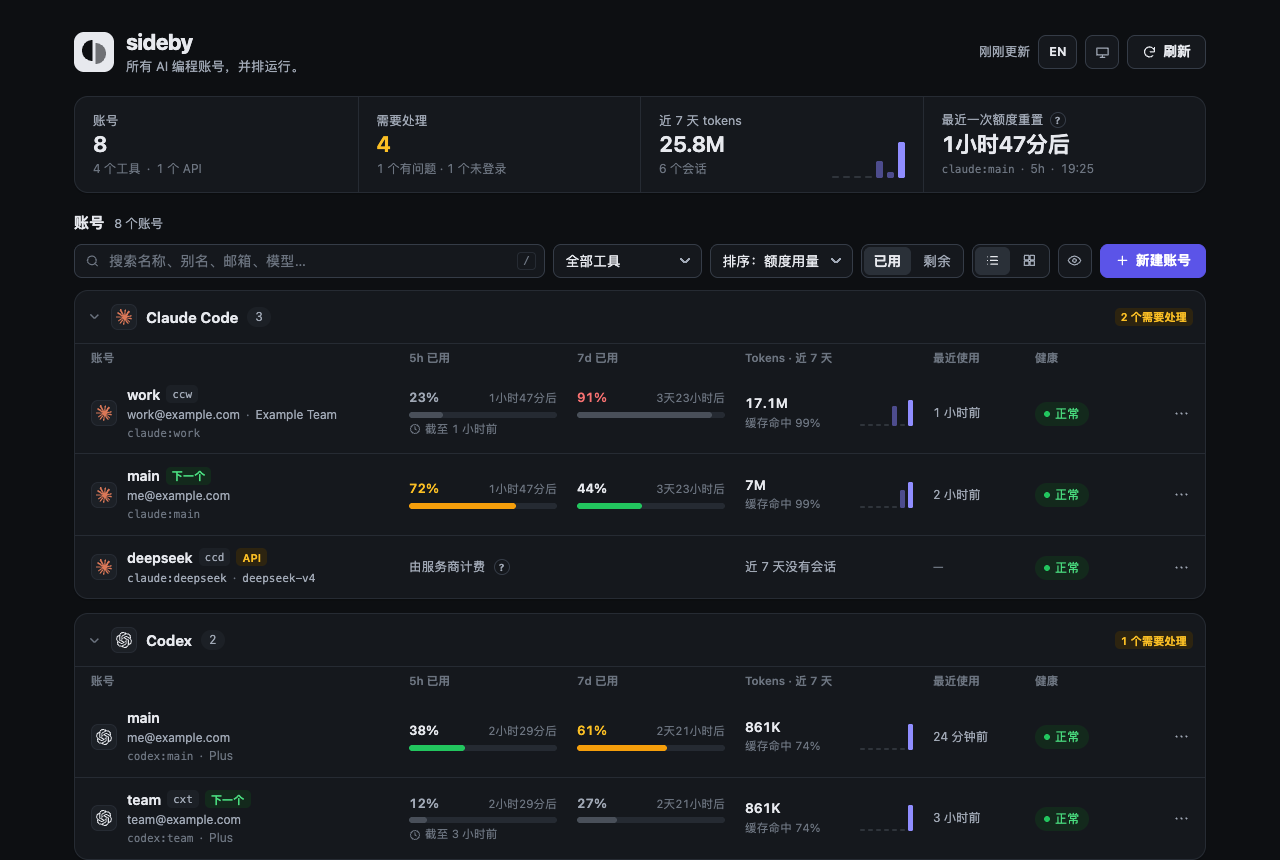
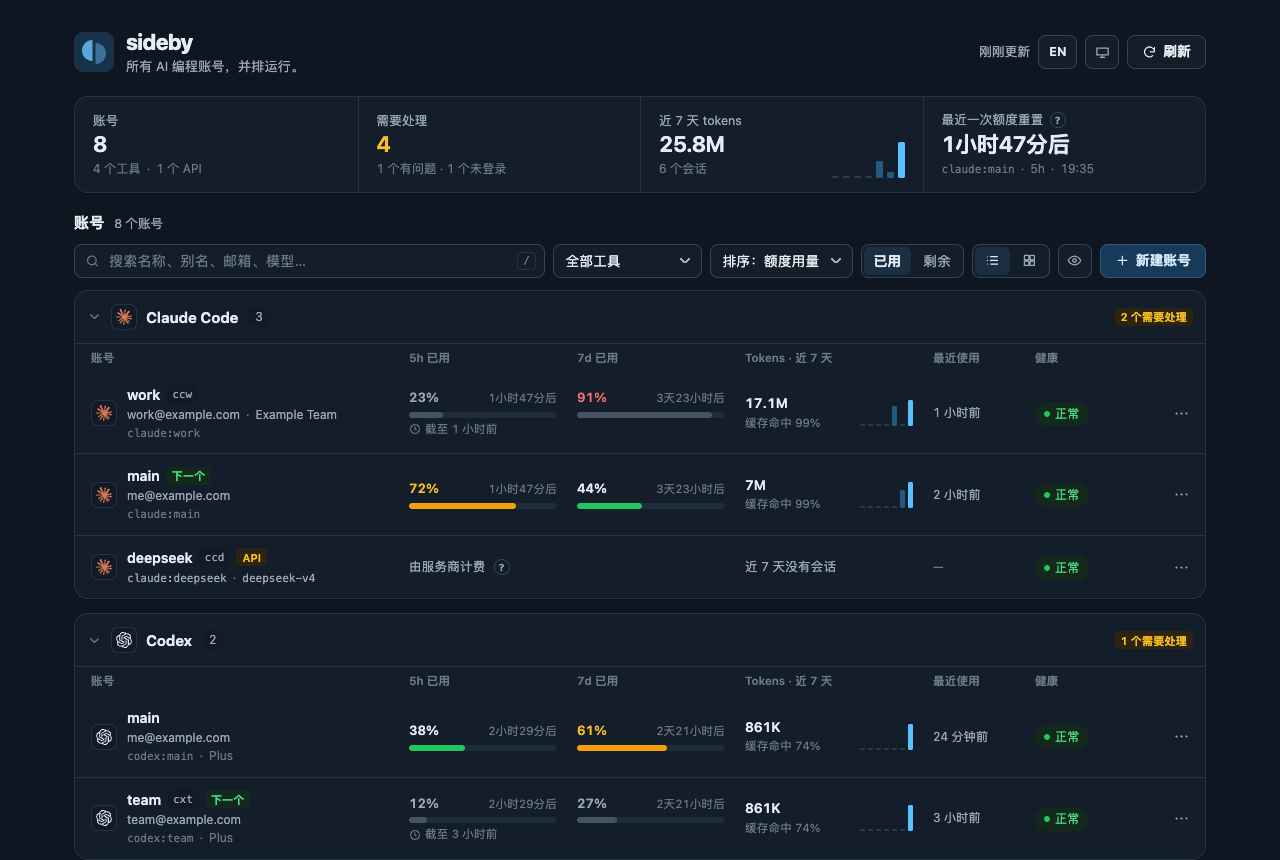
✨ feat(panel): soft blue default palette instead of indigo
The Panel's own colors and the desktop app icon now match the Local tools look (pale blue primary with blue text, a tinted logo tile, blue sparklines; matching dark blues), so the standalone Panel, the desktop app and the README screenshots look like the Panel people see embedded.

diff --git a/src/panel/page-styles.ts b/src/panel/page-styles.ts
@@ -4,9 +4,8 @@ import { type ResolvedTheme, resolveTheme } from './theme.ts'
 
 // Colors defined from other tokens; repeated in both schemes so they follow that scheme's base colors.
 const DERIVED_COLORS = `
-  --primary-border: var(--primary); --primary-hover-border: var(--primary-hover); --btn-text: var(--text);
-  --btn-hover-border: var(--border-strong); --btn-hover-text: var(--text); --check: var(--primary);
-  --logo-bg: var(--text); --logo-fg: var(--bg); --logo-line: transparent;
+  --btn-text: var(--text); --btn-hover-text: var(--accent); --check: var(--focus);
+  --logo-bg: var(--accent-soft); --logo-fg: var(--focus); --logo-line: var(--border);
   --focus-outline: 2px solid var(--focus); --focus-ring: none;`
 // Design tokens. A host theme (theme.ts) layers its values over these: light values after LIGHT_TOKENS, dark values after
 // DARK_TOKENS. DARK_TOKENS sets every color token again, so a host's light colors never leak into dark mode, while
@@ -17,22 +16,24 @@ const LIGHT_TOKENS = `
   --title-weight: 750; --heading-weight: 650; --strong-weight: 600; --button-weight: 600; --primary-weight: var(--button-weight);
   --radius: 14px; --ctl-radius: 8px; --chip-radius: 999px; --ctl-h: 34px; --ctl-h-sm: 28px; --field-h: 36px;
   --content-width: 1180px; --gutter: 24px;
-  --bg: #f5f6f8; --surface: #ffffff; --surface-2: #f0f2f5; --border: #e2e5ea; --border-strong: #cfd4dc;
-  --text: #15171c; --muted: #5b6372; --faint: #8b93a1; --accent: #4f46e5; --accent-soft: #eef0ff;
-  --primary: #4f46e5; --primary-hover: #4338ca; --primary-active: #3730a3; --on-primary: #ffffff;
-  --hover: #eceef2; --active: #e2e5ea; --focus: #6366f1;
+  --bg: #f2f8fc; --surface: #fcfcfa; --surface-2: #f6fafd; --border: #dce8f0; --border-strong: #c5d7e4;
+  --text: #15171c; --muted: #555b63; --faint: #8b93a1; --accent: #27658f; --accent-soft: #e5f2fb;
+  --primary: #e1f0fb; --primary-hover: #d2e8f9; --primary-active: #c3e0f6; --on-primary: #1f6396;
+  --primary-border: #b9d8ef; --primary-hover-border: #9cc7e8; --btn-hover-border: #8fbde3;
+  --hover: #f0f7fc; --active: #e6f1fa; --focus: #3f8fc4;
   --ok: #15803d; --ok-bar: #22c55e; --ok-soft: #e8f7ee; --warn: #b45309; --warn-bar: #f59e0b; --warn-soft: #fdf3e2;
-  --fail: #c81e1e; --fail-bar: #ef4444; --fail-soft: #fdecec; --track: #e9ecf1;
+  --fail: #c81e1e; --fail-bar: #ef4444; --fail-soft: #fdecec; --track: #e4edf4;
   --spark: oklch(from var(--accent) clamp(0.55, l, 0.62) max(c, 0.14) h); --spark-soft: oklch(from var(--accent) 0.83 calc(max(c, 0.14) * 0.6) h);
   --shadow: 0 1px 2px rgba(16,24,40,.04), 0 2px 8px rgba(16,24,40,.05);
   --float-shadow: 0 10px 30px rgba(16,24,40,.14), 0 2px 6px rgba(16,24,40,.06);${DERIVED_COLORS}`
 const DARK_TOKENS = `
-  --bg: #0d0f12; --surface: #15181d; --surface-2: #1c2026; --border: #262b33; --border-strong: #353c47;
-  --text: #e7e9ee; --muted: #a0a8b5; --faint: #6c7480; --accent: #8b87ff; --accent-soft: #23224a;
-  --primary: #5b54e8; --primary-hover: #6a64ef; --primary-active: #4f46e5; --on-primary: #ffffff;
-  --hover: #22272e; --active: #2a3038; --focus: #8b87ff;
+  --bg: #0e1621; --surface: #141e2a; --surface-2: #111a25; --border: #233244; --border-strong: #30455b;
+  --text: #e6edf3; --muted: #9aa9b8; --faint: #6b7a8a; --accent: #8cc4ee; --accent-soft: #16314a;
+  --primary: #173a58; --primary-hover: #1d4769; --primary-active: #22537a; --on-primary: #d3e9fa;
+  --primary-border: #2b5b82; --primary-hover-border: #3a6f99; --btn-hover-border: #4a7fa8;
+  --hover: #182736; --active: #1c2f42; --focus: #5aa7dc;
   --ok: #4ade80; --ok-bar: #22c55e; --ok-soft: #13291c; --warn: #fbbf24; --warn-bar: #f59e0b; --warn-soft: #2d2410;
-  --fail: #f87171; --fail-bar: #ef4444; --fail-soft: #331717; --track: #252a32;
+  --fail: #f87171; --fail-bar: #ef4444; --fail-soft: #331717; --track: #1f2c3a;
   --spark: oklch(from var(--accent) clamp(0.7, l, 0.78) max(c, 0.14) h); --spark-soft: oklch(from var(--accent) 0.45 calc(max(c, 0.14) * 0.6) h);
   --shadow: 0 1px 2px rgba(0,0,0,.3); --float-shadow: 0 12px 32px rgba(0,0,0,.5), 0 2px 6px rgba(0,0,0,.3);${DERIVED_COLORS}`
 

diff --git a/src/desktop/app.test.ts b/src/desktop/app.test.ts
@@ -67,16 +67,16 @@ describe('app icon', () => {
     assert.deepEqual([width, height], [256, 256])
     assert.deepEqual(text, [`Software\0${APP_MARKER}`])
     assert.deepEqual(px(0, 0), [0, 0, 0, 0], 'outside the tile is transparent')
-    assert.deepEqual(px(128, 60), [0x15, 0x17, 0x1c, 255], 'the tile is the Panel dark')
+    assert.deepEqual(px(128, 60), [0xe5, 0xf2, 0xfb, 255], 'the tile is the Panel logo tint')
     // Halves of radius 10.5 at 18.5,18.5 (left) and 21.5,21.5 (right) in the 40-unit logo; the tile is
     // 824/1024 of the canvas, centred.
     const at = (u: number) => Math.floor(25 + (u * 206) / 40)
-    const tile = [0x15, 0x17, 0x1c, 255]
-    assert.deepEqual(px(at(13), at(18.5)), [0xf5, 0xf6, 0xf8, 255], 'left half opaque')
+    const tile = [0xe5, 0xf2, 0xfb, 255]
+    assert.deepEqual(px(at(13), at(18.5)), [0x3f, 0x8f, 0xc4, 255], 'left half opaque')
     const second = px(at(27), at(21.5))
-    assert.equal(second[0], Math.round(0xf5 * 0.55 + 0x15 * 0.45), 'right half at 55%')
+    assert.equal(second[0], Math.round(0x3f * 0.55 + 0xe5 * 0.45), 'right half at 55%')
     assert.deepEqual(px(at(20), at(20)), tile, 'gap between the halves')
-    assert.deepEqual(px(at(17), at(9)), [0xf5, 0xf6, 0xf8, 255], 'left half starts higher')
+    assert.deepEqual(px(at(17), at(9)), [0x3f, 0x8f, 0xc4, 255], 'left half starts higher')
     assert.deepEqual(px(at(23), at(9)), tile, 'right half starts lower')
     const edge = Array.from({ length: 256 }, (_, y) => px(25, y)[3]!)
     assert.ok(

diff --git a/src/desktop/icon.ts b/src/desktop/icon.ts
@@ -8,8 +8,8 @@ export const APP_MARKER = 'sideby-app-install'
 
 // Geometry in the Panel's 40-unit logo box (page.ts: .logo 40×40, radius 10; halves of radius 10.5 centred at
 // 18.5,18.5 facing left and 21.5,21.5 facing right, so they sit 3 apart and mirror through the centre).
-const TILE = { size: 40, radius: 10, color: [0x15, 0x17, 0x1c] as const }
-const MARK = { color: [0xf5, 0xf6, 0xf8] as const, opacities: [1, 0.55] }
+const TILE = { size: 40, radius: 10, color: [0xe5, 0xf2, 0xfb] as const }
+const MARK = { color: [0x3f, 0x8f, 0xc4] as const, opacities: [1, 0.55] }
 const HALVES = [
   { cx: 18.5, cy: 18.5, r: 10.5, side: -1 },
   { cx: 21.5, cy: 21.5, r: 10.5, side: 1 },

diff --git a/src/panel/panel.test.ts b/src/panel/panel.test.ts
@@ -308,7 +308,7 @@ describe('panel theme', () => {
         )
         // The host's dark values come after the built-in dark palette, inside the media query.
         const dark = style.slice(style.indexOf('@media (prefers-color-scheme: dark)'))
-        assert.ok(dark.indexOf('--primary: #5b54e8') < dark.indexOf('--primary: rgb(31 99 150 / 90%)'))
+        assert.ok(dark.indexOf('--primary: #173a58') < dark.indexOf('--primary: rgb(31 99 150 / 90%)'))
         assert.match(r.text, /<body class="header-bar">/)
       } finally {
         await close(server)
